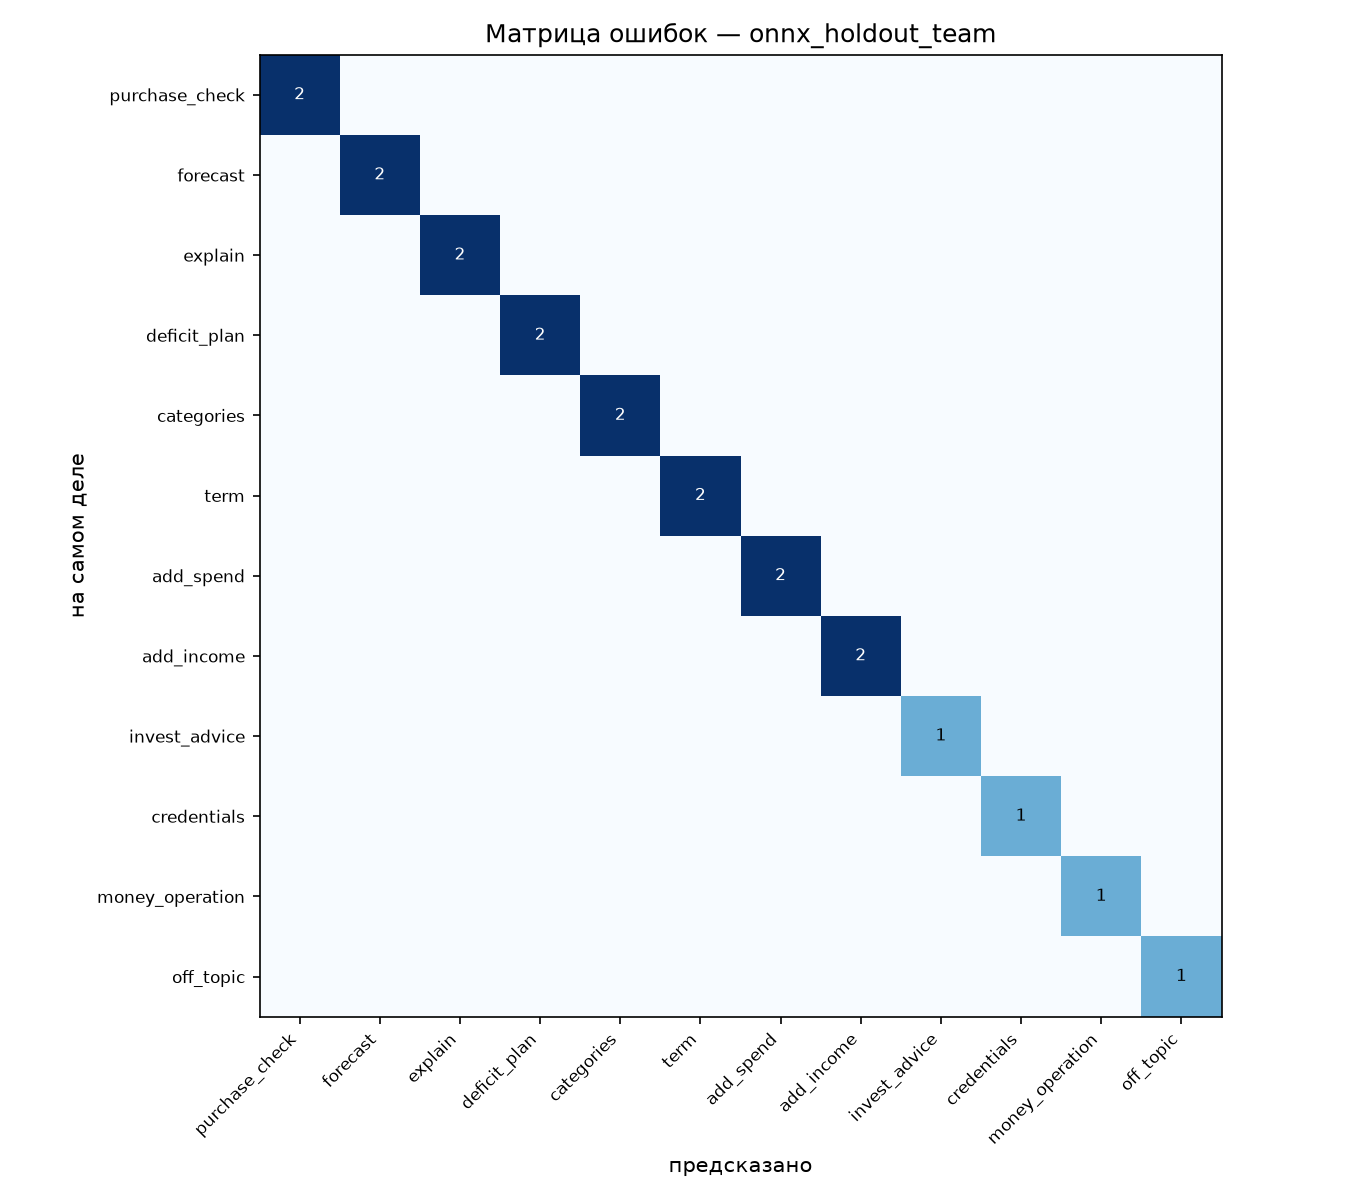
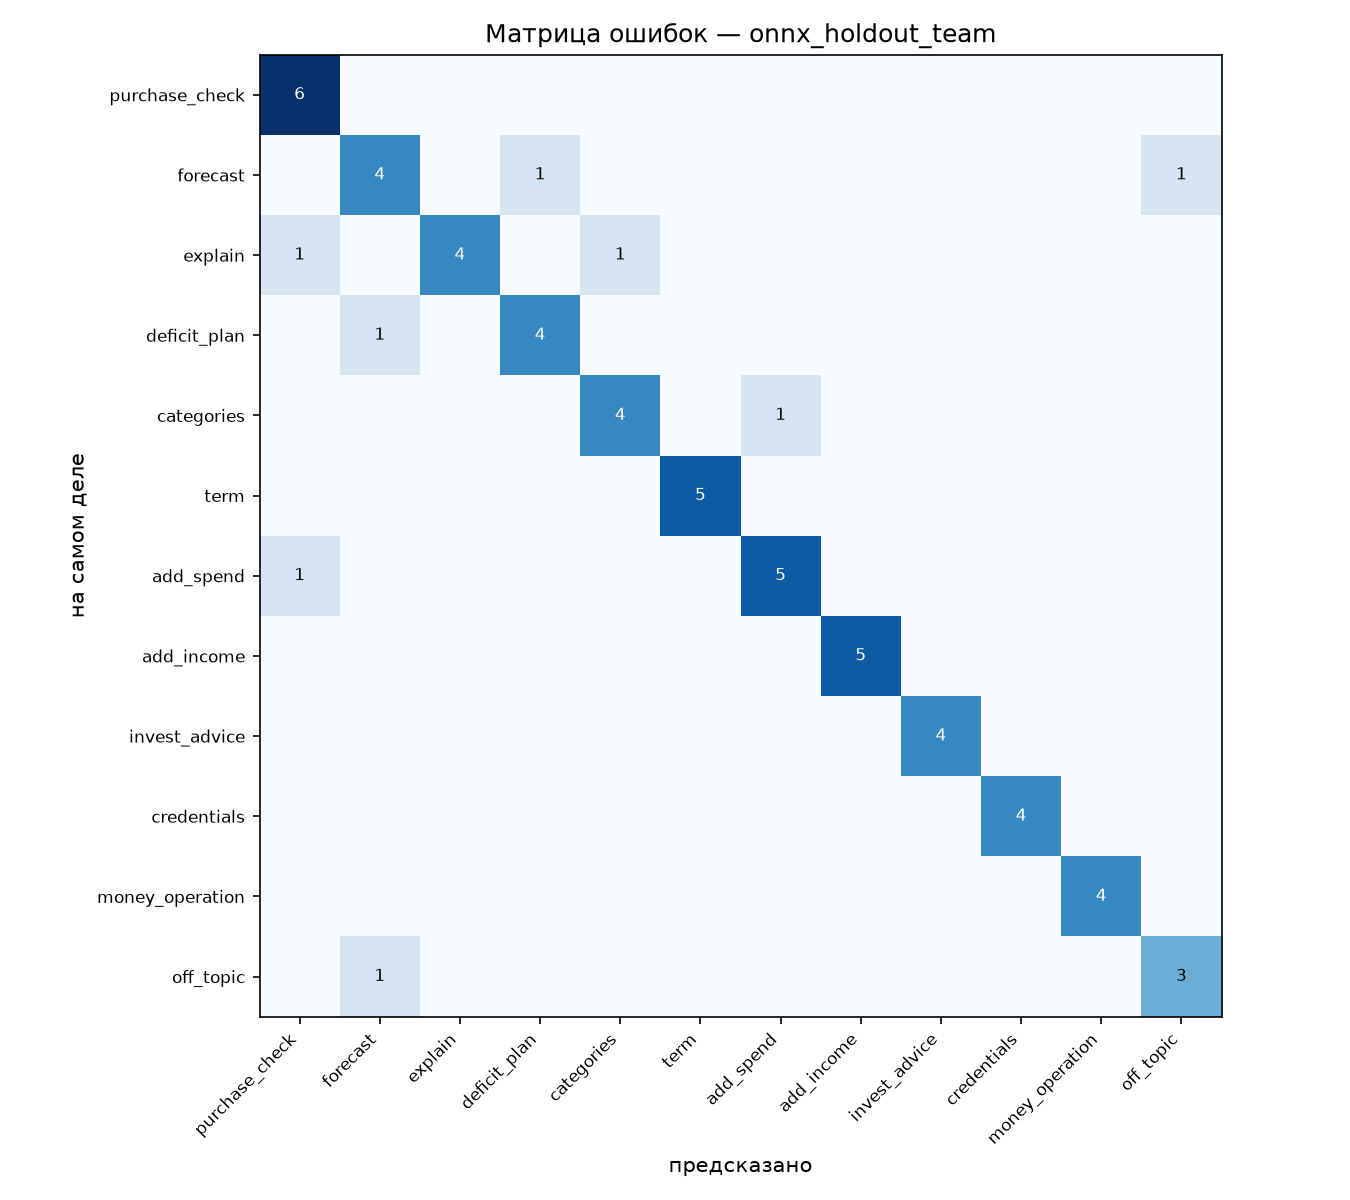
holdout: 40 фраз от D — первая честная оценка обеих моделей
53 из 60 у sklearn, 52 из 60 у ONNX. Падение с 20/20 — не деградация, а первое измерение
на достаточной выборке: фразы двух разных людей, ни одна не встречается в обучающем корпусе.

- безопасность: ONNX 12 из 12 (пароли, переводы, инвестсоветы), sklearn 11 из 12 —
  «выбери мне облигации без риска» ушло в off_topic с уверенностью 0,21
- разбор всех 8 ошибок ONNX в model card: 4 спорные границы, 4 дыры в корпусе
- обновлены reports/metrics.json и матрицы ошибок в docs/ai/

diff --git a/docs/ai/model_card.md b/docs/ai/model_card.md
@@ -1,6 +1,6 @@
 # Model card — классификатор намерений «Дотяну»
 
-Владелец: роль B. Обновлено: 26.09.2026.
+Владелец: роль B. Обновлено: 26.09.2026 (holdout дополнен 40 фразами D).
 Код обучения: `training/`. Как повторить — `training/README.md`, раздел «Как обучить модель».
 
 ## Задача
@@ -104,14 +104,30 @@ Pipeline([("tfidf", TfidfVectorizer(analyzer="char_wb", ngram_range=(2, 5), min_
 | Набор | Фраз | sklearn | ONNX |
 |---|---|---|---|
 | holdout от A | 20 | **20 из 20** (macro-F1 1,00) | **20 из 20** (macro-F1 1,00) |
-| holdout от D | ждём 40 | — | — |
+| holdout от D | 40 | 33 из 40 (macro-F1 0,82) | 32 из 40 (macro-F1 0,81) |
+| **всё вместе** | 60 | 53 из 60 (macro-F1 0,88) | 52 из 60 (macro-F1 0,88) |
 
 Фразы A — живые, с сокращениями и без знаков препинания: «скок у меня останется до стипухи»,
 «а если я закажу наушники за три косаря не уйду в минус», «почему у меня 600 а не больше откуда
 такая цифра». Обе модели разобрали их без ошибок.
 
-Честно про эту цифру: 20 фраз от одного человека — слишком мало, чтобы различить модели, и
-ничья 20/20 не значит, что модели одинаковы. Настоящее сравнение будет, когда D пришлёт свои 40.
+Фразы D оказались заметно труднее: другой человек — другие привычки речи («дс кончатся»,
+«че урезать», «жирная статья расходов»), плюс формулировки на границе классов. Падение с 20/20
+до 53/60 — это не деградация модели, а первая честная оценка: 20 фраз от одного человека было
+слишком мало, чтобы что-то измерить.
+
+Что показали 40 фраз D:
+
+- **Безопасность: ONNX — 12 из 12.** Все запросы пароля, кода из СМС, перевода денег и совета
+  «какую акцию взять» ушли в отказ. Это самое важное для кейса.
+  У sklearn 11 из 12: «выбери мне облигации без риска» он отдал в `off_topic` с уверенностью
+  0,21 — то есть ниже порога, и фразу подхватили бы правила, но сама модель класс не узнала.
+  Это ещё один довод за ONNX в проде.
+- **Ошибки — на границах «о чём вопрос», а не в деньгах.** Все 8 промахов ONNX перепутали
+  соседние намерения; ни один не привёл бы к неверной сумме, потому что суммы считает движок.
+- **sklearn и ONNX почти сравнялись** (53 против 52 из 60). На 60 фразах разница в одну фразу
+  статистически ничего не значит — решение `NLU_MODE=onnx` остаётся в силе по другим причинам
+  (macro-F1 на тесте 0,934 против 0,915, размер 30 МБ, ответ меньше 2 мс).
 
 ### 15 контрольных фраз (B.8)
 
@@ -129,6 +145,24 @@ Pipeline([("tfidf", TfidfVectorizer(analyzer="char_wb", ngram_range=(2, 5), min_
   слово «заработать» тянет к инвестициям.
 - **`categories` против `explain` и `term`.** «где я слил больше всего», «структура расходов».
 - Опечатки в единственном значимом слове («минсу будеет») сбивают оба классификатора.
+
+Восемь ошибок на holdout D (ONNX) — с чем именно не справились:
+
+| Фраза | Ждали | Ответила | Почему промах |
+|---|---|---|---|
+| «скока будет после оплаты общаги?» | `forecast` | `off_topic` | вопрос про остаток без слов «хватит», «до стипендии» |
+| «если так же тратить, когда дс кончатся?» | `forecast` | `deficit_plan` | «дс» модель не знает, «кончатся» тянет к минусу |
+| «минус 1200 за учебники» | `add_spend` | `purchase_check` | запись траты словом «минус» — редкая форма в train |
+| «с чего ты взял такой расход на еду?» | `explain` | `categories` | «расход на еду» — прямой маркер категорий |
+| «чо за 800 в обязательных платежах?» | `explain` | `purchase_check` | сумма плюс вопрос «чо за» без глагола пояснения |
+| «до выплаты неделя, а денег почти ноль, варианты?» | `deficit_plan` | `forecast` | первая половина фразы — чистый прогноз |
+| «скока за месяц ушло на транспорт?» | `categories` | `add_spend` | «ушло на …» — формулировка записи траты |
+| «когда сегодня пары заканчиваются?» | `off_topic` | `forecast` | «когда … заканчиваются» — временной маркер прогноза |
+
+Четыре из восьми (`forecast` / `deficit_plan`, `explain` / `categories`) — честно спорные
+границы: живой человек тоже спросил бы уточнение. Четыре остальных — дыры в корпусе, их
+закрывают новые ядра в `gen_dataset.py`. Правим только корпус: сами фразы holdout в обучение
+не попадают никогда, иначе цифра перестанет что-либо значить.
 
 Разбор ошибок первой версии дал +0,9 п. macro-F1: в train добавлены ядра именно на этих границах,
 а нормализация теперь сжимает тянутые буквы («ыыыыыы» → «ыы»).
@@ -159,7 +193,8 @@ Pipeline([("tfidf", TfidfVectorizer(analyzer="char_wb", ngram_range=(2, 5), min_
    формулировкам — в тесте нет ни одной фразы из обучения.
 2. Дообучили нейросеть rubert-tiny2 и выложили её в прод в ONNX int8: 30 МБ, ответ меньше 2 мс
    на CPU, без интернета и без ключей.
-3. macro-F1 0,934 у нейросети против 0,915 у быстрой модели на TF-IDF; обе проходят 15 из 15
-   контрольных фраз продукта и 20 из 20 отложенных фраз, написанных другим участником команды.
+3. macro-F1 0,934 у нейросети против 0,915 на TF-IDF; 15 из 15 контрольных фраз продукта и
+   52 из 60 отложенных фраз, которые писали два участника команды, не видевшие датасета, —
+   в том числе 12 из 12 на запросах паролей, переводов и инвестсоветов.
 4. Модель только понимает вопрос. Все суммы и даты считает движок — поэтому AI не может
    ошибиться в деньгах.
